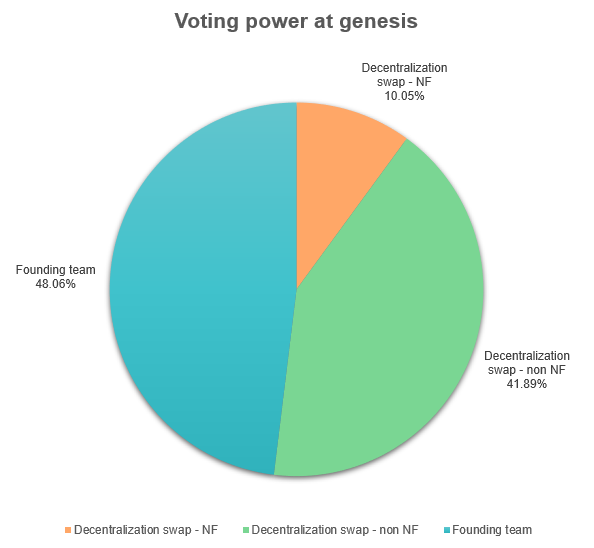
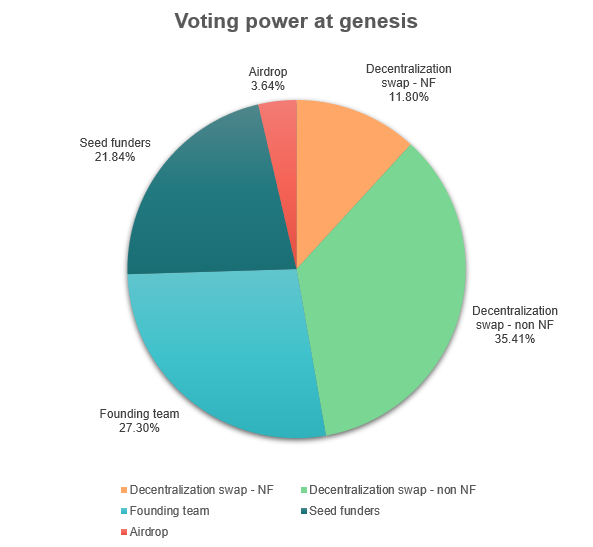
feat: added seed funders and airdrop allocations

diff --git a/whitepaper/tokenomics/allocation.md b/whitepaper/tokenomics/allocation.md
@@ -10,24 +10,34 @@ When the SNS DAO is successfully launched, the allocation of the total supply of
 
 ![match renevue distribution](./img/token-allocation.png)
 
-Note: Assuming 72,000 ICP as the Neuron Fund (NF) participation; however, this value can fluctuate daily and will only be known exactly when the swap ends.
+Note: Assuming 100,000 ICP as the Neuron Fund (NF) participation; however, this value can fluctuate daily and will only be known exactly when the swap ends.
 
 ### SNS Sale
-**21%** of the supply, or **21,000,000** (twenty-one million) tokens, will be made available for sale, to raise funds and decentralize the platform governance.  
+**28%** of the supply, or **28,000,000** (twenty-eight million) tokens, will be made available for sale, to raise funds and decentralize the platform governance.  
 
 To be part of the SNS decentralization swap, the participants must deposit ICP into the SNS to receive NAT tokens in proportion to the ICP deposited, depending on the quantity of ICP raised in total at the final.  
 
 The tokens will be divided into 7 neurons of equal value, with dissolve delays of 0, 3, 6, 9, 12, 15 and 18 months.
 
 ### Founding Team
-**18%** of the supply, or **18,000,000** (eighteen million) tokens, will be allocated to the founding team.  
+**15%** of the supply, or **15,000,000** (fifteen million) tokens, will be allocated to the founding team.  
 
 The team will receive a basket of 16 neurons, each with equal values. These tokens will be released over a period of **4 years**, in equal portions at intervals of 3 months. Each neuron will have a dissolve delay of 1 month.
 
 This structure ensures the team's long-term interest in the success of the project and guarantees their commitment to the platform.
 
-### Treasury
-**61%** of the supply, or **61,000,000** (sixty-one million) tokens, will be allocated to the DAO's treasury.  
+### Seed Funders
+**12%** of the supply, or **12,000,000** (twelve million) tokens, will be allocated to the seed funders.
 
-The treasury, under complete control of the DAO, serves as a strategic reserve to be utilized for approved purposes such as partnerships, grants to NFT creators and game developers, prizes in future championships, community airdrops, token burning, and so on.
+They will receive a basket of 8 neurons, each with equal values. These tokens will be released over a period of **2 years**, in equal portions at intervals of 3 months. Each neuron will have a dissolve delay of 1 month.
+
+### Community airdrop
+**2%** of the supply, or **2,000,000** (two million) tokens, will be airdropped to our community (OpenChat and Twitter) followers.  
+
+They will receive a basket of 4 neurons, each with equal values. These tokens will be released over a period of **1 year**, in equal portions at intervals of 3 months. Each neuron will have a dissolve delay of 1 month.
+
+### Treasury
+**43%** of the supply, or **43,000,000** (forty-three million) tokens, will be allocated to the DAO's treasury.  
+
+The treasury, under complete control of the DAO, serves as a strategic reserve to be utilized for approved purposes such as partnerships, grants to NFT creators and game developers, prizes in future championships, token burning, and so on.
 

diff --git a/whitepaper/tokenomics/mcap.md b/whitepaper/tokenomics/mcap.md
@@ -4,14 +4,14 @@ sidebar_position: 7
 
 # Market cap
 
-With 21% of the total supply for sale, the market cap range will be:
+With 28% of the total supply for sale, the market cap range will be:
 
 ### Circulating supply
 
 | Raised directly (ICP) | Raised NF (ICP) | M Cap (ICP) | M Cap (USD) |
 | --------------------: | --------------: | --------------: | --------------: |
-| 100,000 | 72,000 | 399,286 | $4,791,428 |
-| 300,000 | 72,000 | 677,857 | $8,134,285 |
+| 100,000 | 100,000 | 407,143 | $2,850,000 |
+| 300,000 | 100,000 | 814,286 | $5,700,000 |
 
 ![valuation](./img/mcap-circ.png)
 
@@ -19,8 +19,8 @@ With 21% of the total supply for sale, the market cap range will be:
 
 | Raised directly (ICP) | Raised NF (ICP) | M Cap (ICP) | M Cap (USD) |
 | --------------------: | --------------: | --------------: | --------------: |
-| 100,000 | 72,000 | 1,023,810 | $12,285,714 |
-| 300,000 | 72,000 | 1,738,095 | $20,857,142 |
+| 100,000 | 100,000 |  714,286 |  $5,000,000 |
+| 300,000 | 100,000 | 1,428,571 | $10,000,000 |
 
 ![valuation](./img/mcap-total.png)
 
@@ -30,5 +30,5 @@ Notes:
 1. For the circulating supply calculation, the ICPCoins formula was used (at genesis):  
 <small>**circulating_supply = total_supply - treasury** (see: [defi_aggregator](https://github.com/Neutrinomic/defi_aggregator/blob/4659c3592ababa5e8c94257e26161773e43090df/src/main.mo#L1162))</small>
 2. For the fully diluted calculation, the total supply at genesis was used
-3. Considering a ICP/USD ratio of $ 12,00
-4. Assuming 72,000 ICP as the Neuron Fund (NF) participation; however, this value can fluctuate daily and will only be known exactly when the swap ends.
+3. Considering a ICP/USD ratio of $ 7,00
+4. Assuming 100,000 ICP as the Neuron Fund (NF) participation; however, this value can fluctuate daily and will only be known exactly when the swap ends.

diff --git a/whitepaper/tokenomics/config.md b/whitepaper/tokenomics/config.md
@@ -10,9 +10,11 @@ The initial configuration parameters of the SNS decentralization sale/swap will 
 | Description | Value |
 | ----------- | ----: |
 | Supply at genesis (NAT) | 100,000,000 |
-| Tokens for sale (NAT) | 21,000,000 |
-| Founding team balance (NAT) | 18,000,000 |
-| Treasury balance (NAT) | 61,000,000 |
+| Tokens for sale (NAT) | 25,000,000 |
+| Founding team balance (NAT) | 15,000,000 |
+| Seed funders balance (NAT) | 12,000,000 |
+| Community airdrop (NAT) | 2,000,000 |
+| Treasury balance (NAT) | 43,000,000 |
 | Initial reward rate | 4% |
 | Final reward rate | 2% |
 | Reward transition duration | 4 years |
@@ -21,7 +23,7 @@ The initial configuration parameters of the SNS decentralization sale/swap will 
 | Minimum direct participation (ICP) | 100,000 |
 | Maximal direct participation (ICP) | 300,000 |
 | Minimum individual participation (ICP) | 1 |
-| Maximal individual participation (ICP) | 100,000 |
+| Maximal individual participation (ICP) | 50,000 |
 | Minimum participants | 100 |
 | Minimum dissolve delay | 6 months |
 | Maximum dissolve delay | 2 years |

diff --git a/whitepaper/tokenomics/price.md b/whitepaper/tokenomics/price.md
@@ -4,15 +4,15 @@ sidebar_position: 8
 
 # Price
 
-With 21% of the total supply for sale, the price range of each NAT token will be:
+With 28% of the total supply for sale, the price range of each NAT token will be:
 
 | Raised directly (ICP) | Raised NF (ICP) | Token price (ICP) | Token price (USD) |
 | --------------------: | --------------: | ----------------: | ----------------: |
-| 100,000 | 72,000 | 0.009 | $ 0.10 |
-| 300,000 | 72,000 | 0.018 | $ 0.21 |
+| 100,000 | 100,000 | 0.007143 | $ 0.05 |
+| 300,000 | 100,000 | 0.014286 | $ 0.10 |
 
 ![token price](./img/price.png)
 
 Notes: 
-1. Considering a ICP/USD ratio of $ 12,00
-2. Assuming 72,000 ICP as the Neuron Fund (NF) participation; however, this value can fluctuate daily and will only be known exactly when the swap ends.
+1. Considering a ICP/USD ratio of $ 7,00
+2. Assuming 100,000 ICP as the Neuron Fund (NF) participation; however, this value can fluctuate daily and will only be known exactly when the swap ends.

diff --git a/whitepaper/tokenomics/governance.md b/whitepaper/tokenomics/governance.md
@@ -10,11 +10,11 @@ Anyone will be able stake NAT to earn new NAT in the form of voting rewards. Sta
 
 ## Voting power
 
-With the parameters defined at the configuration page, the voting power at genesis will be divided between the sale participants and the founding team (assuming 100% of participation) as follows:
+With the parameters defined at the configuration page, the voting power at genesis will be divided between the sale participants and the founding team/seed funders (assuming 100% of participation) as follows:
 
 ![voting power at TGE](./img/voting-power-tge.png)
 
-In conclusion, as illustrated in the chart above, the team will possess less voting power than the other participants: 48.06% vs 51.94%.
+In conclusion, as illustrated in the chart above, the team and funders will possess less voting power than the other participants: 49.15% vs 50.85%.
 
 ## First proposals
 

diff --git a/whitepaper/tokenomics/treasury.md b/whitepaper/tokenomics/treasury.md
@@ -4,7 +4,7 @@ sidebar_position: 5
 
 # Treasury
 
-When the SNS decentralization sale finish, the DAO will be in control of a treasury composed by ICP (the proceeds from the sale) and $NAT tokens (the 61% of the total supply).
+When the SNS decentralization sale finish, the DAO will be in control of a treasury composed by ICP (the proceeds from the sale) and $NAT tokens (the 43% of the total supply).
 
 The treasury, stored in both the ICP ledger account and the $NAT ledger account of the DAO, will be allocated through proposals that must be approved by DAO members.
 
